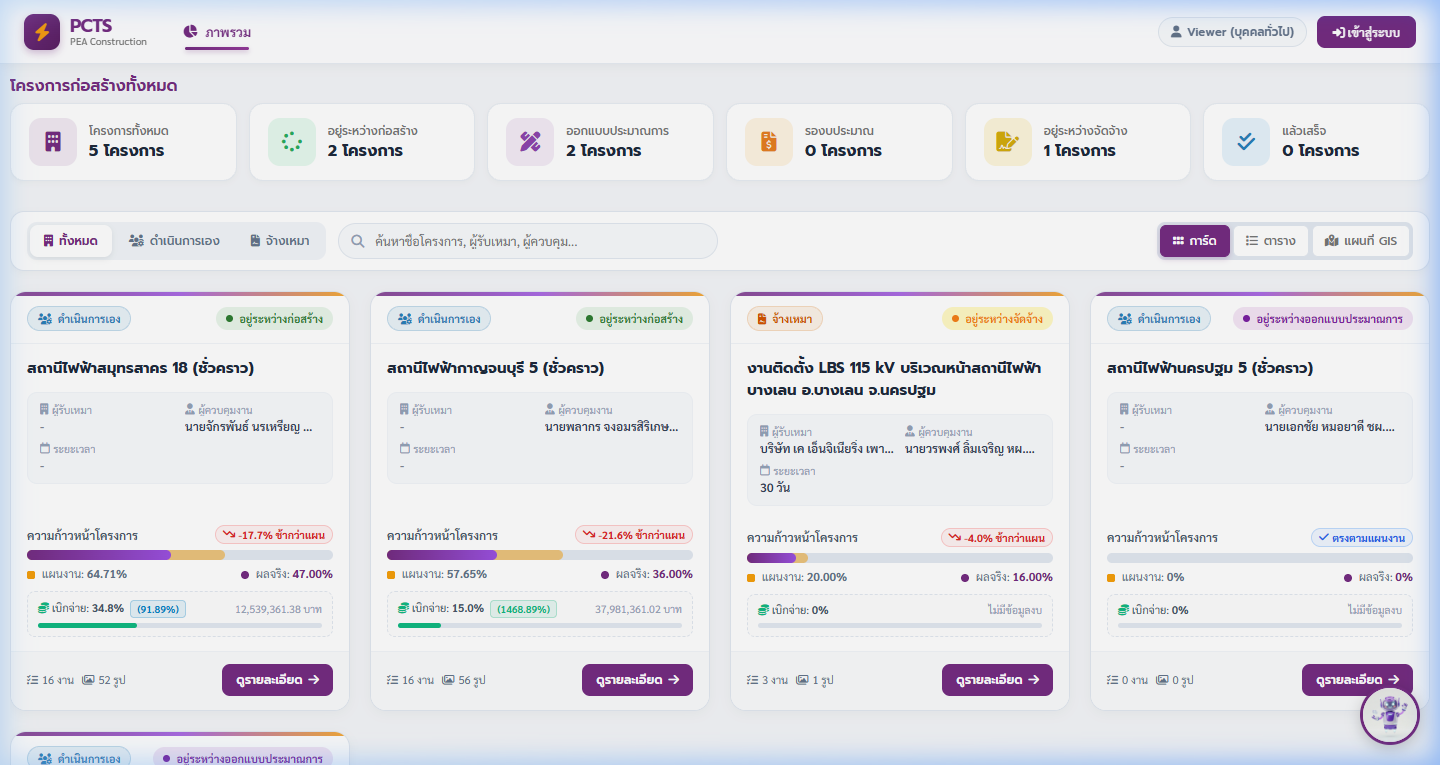
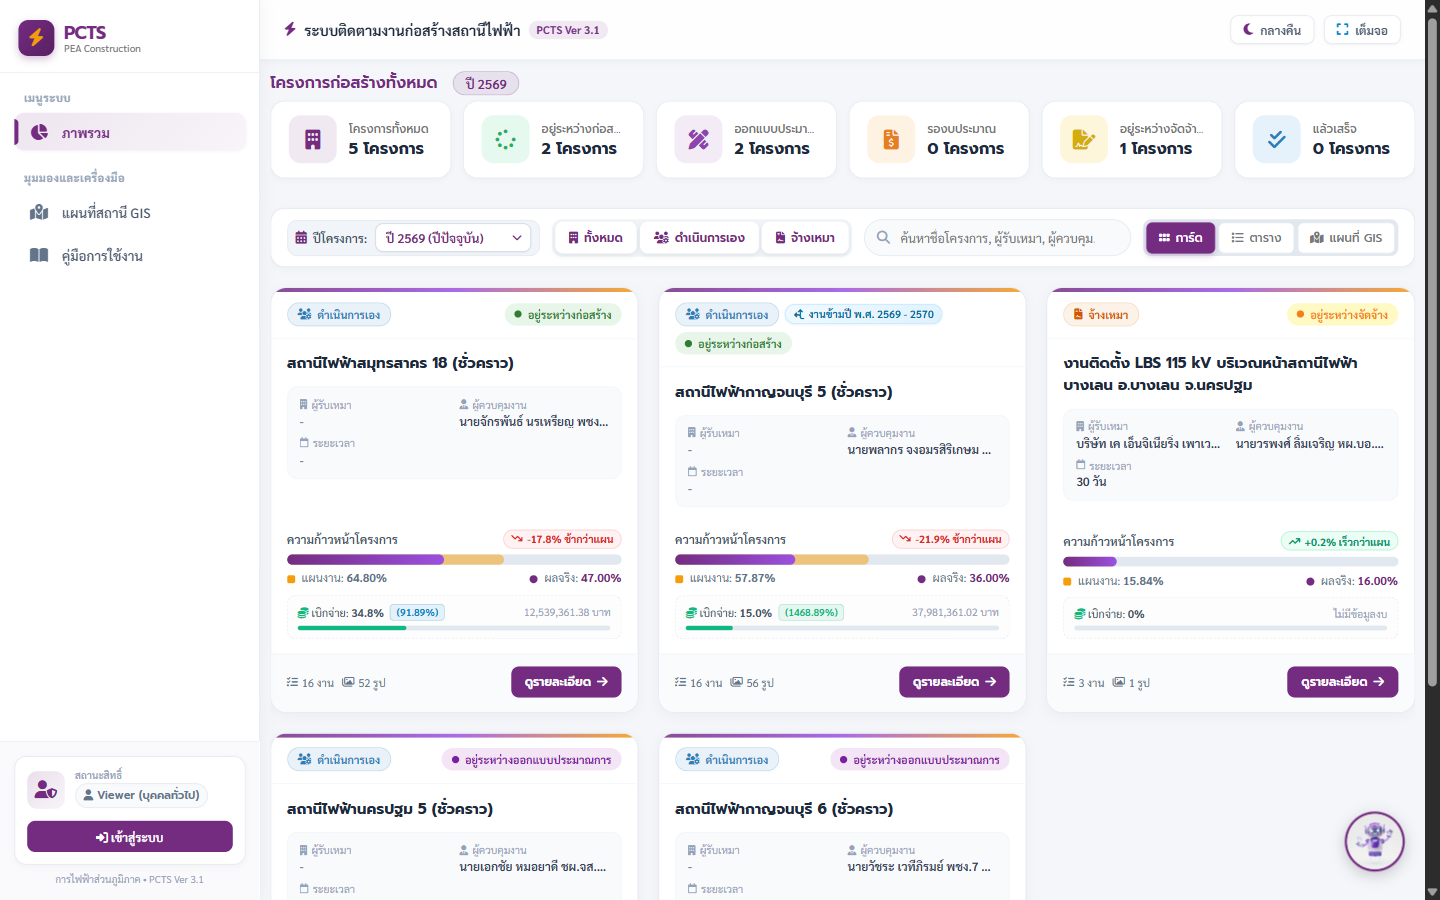
fix(manual): อัปเดตภาพประกอบคู่มือหน้า 1 และหน้า 6 พร้อมระบบแคช pre-cache และ cache busting ?v=2

Changed region(s): [[0.0, 0.0, 1.0, 1.0]]

diff --git a/index.html b/index.html
@@ -37,7 +37,7 @@
     <meta name="theme-color" content="#742C81">
 
     <!-- Custom CSS -->
-    <link rel="stylesheet" href="style.css?v=7">
+    <link rel="stylesheet" href="style.css?v=8">
 </head>
 
 <body>
@@ -983,7 +983,7 @@
                             </div>
 
                             <figure class="manual-figure">
-                                <img src="assets/manual/ch1_dashboard.png" alt="หน้าต่างภาพรวมระบบ PCTS และแถบเมนูนำทางหลัก" class="manual-img">
+                                <img src="assets/manual/ch1_dashboard.png?v=2" alt="หน้าต่างภาพรวมระบบ PCTS และแถบเมนูนำทางหลัก" class="manual-img" loading="eager">
                                 <figcaption class="manual-figcaption">
                                     <i class="fa-solid fa-camera"></i> รูปที่ 1.1: หน้าต่างภาพรวมระบบ PCTS, เมนูนำทางด้านซ้าย (Left Sidebar) และสถานะสิทธิ์การใช้งาน
                                 </figcaption>
@@ -1055,7 +1055,7 @@
                             </div>
 
                             <figure class="manual-figure">
-                                <img src="assets/manual/ch2_gis_map.png" alt="แผนที่พิกัดสถานีไฟฟ้า GIS ทั่วประเทศ" class="manual-img">
+                                <img src="assets/manual/ch2_gis_map.png?v=2" alt="แผนที่พิกัดสถานีไฟฟ้า GIS ทั่วประเทศ" class="manual-img" loading="eager">
                                 <figcaption class="manual-figcaption">
                                     <i class="fa-solid fa-camera"></i> รูปที่ 2.1: แผนที่พิกัดสถานี GIS พร้อมป้ายแสดงสถานะ ผลงานจริง และหน้าต่างนำทาง GPS
                                 </figcaption>
@@ -1117,7 +1117,7 @@
                             </div>
 
                             <figure class="manual-figure">
-                                <img src="assets/manual/ch3_scurve.png" alt="กราฟ S-Curve เปรียบเทียบแผน vs จริง และตาราง WBS" class="manual-img">
+                                <img src="assets/manual/ch3_scurve.png?v=2" alt="กราฟ S-Curve เปรียบเทียบแผน vs จริง และตาราง WBS" class="manual-img" loading="eager">
                                 <figcaption class="manual-figcaption">
                                     <i class="fa-solid fa-camera"></i> รูปที่ 3.1: หน้าต่างติดตามความก้าวหน้าโครงการ กราฟ S-Curve และการแจกแจงกิจกรรม WBS
                                 </figcaption>
@@ -1187,7 +1187,7 @@
                             </div>
 
                             <figure class="manual-figure">
-                                <img src="assets/manual/ch4_signatures.png" alt="การออกรายงานสรุปผลงานและการลงนามรับรองอิเล็กทรอนิกส์ 3 ฝ่าย" class="manual-img">
+                                <img src="assets/manual/ch4_signatures.png?v=2" alt="การออกรายงานสรุปผลงานและการลงนามรับรองอิเล็กทรอนิกส์ 3 ฝ่าย" class="manual-img" loading="eager">
                                 <figcaption class="manual-figcaption">
                                     <i class="fa-solid fa-camera"></i> รูปที่ 4.1: ระบบจัดทำรายงาน PDF พร้อมแนบภาพถ่ายหน้างาน และกล่องลงนามดิจิทัล 3 ฝ่าย
                                 </figcaption>
@@ -1244,7 +1244,7 @@
                             </div>
 
                             <figure class="manual-figure">
-                                <img src="assets/manual/ch5_admin.png" alt="หน้าต่างจัดการโครงการและแผนงานสำหรับ Admin" class="manual-img">
+                                <img src="assets/manual/ch5_admin.png?v=2" alt="หน้าต่างจัดการโครงการและแผนงานสำหรับ Admin" class="manual-img" loading="eager">
                                 <figcaption class="manual-figcaption">
                                     <i class="fa-solid fa-camera"></i> รูปที่ 5.1: หน้าจอตั้งค่าแผนงาน จัดการโครงการ เพิ่มโครงการใหม่ นำเข้า Excel และจัดการสิทธิ์ผู้ใช้งาน
                                 </figcaption>
@@ -1297,7 +1297,7 @@
                             </div>
 
                             <figure class="manual-figure">
-                                <img src="assets/manual/ch6_pwa.png" alt="การติดตั้งและใช้งานระบบบนมือถือ PWA" class="manual-img" style="max-height: 420px;">
+                                <img src="assets/manual/ch6_pwa.png?v=2" alt="การติดตั้งและใช้งานระบบบนมือถือ PWA" class="manual-img" style="max-height: 440px;" loading="eager">
                                 <figcaption class="manual-figcaption">
                                     <i class="fa-solid fa-camera"></i> รูปที่ 6.1: การติดตั้งและใช้งานแบบ Progressive Web App (PWA) บนอุปกรณ์เคลื่อนที่
                                 </figcaption>
@@ -2005,7 +2005,7 @@
     <script src="pwa-setup.js?v=1"></script>
 
     <!-- Main Application Core -->
-    <script src="app.js?v=20"></script>
+    <script src="app.js?v=21"></script>
     <script>
         if (window.location.search.includes('admin') || window.location.hash.includes('admin')) {
             window.addEventListener('load', () => {

diff --git a/service-worker.js b/service-worker.js
@@ -1,4 +1,4 @@
-const CACHE_NAME = 'pcts-pea-v3.4-cache';
+const CACHE_NAME = 'pcts-pea-v3.5-cache';
 const STATIC_ASSETS = [
   './',
   './index.html',
@@ -10,7 +10,13 @@ const STATIC_ASSETS = [
   './realtime-sync.js',
   './pwa-setup.js',
   './mascot.jpg',
-  './manifest.json'
+  './manifest.json',
+  './assets/manual/ch1_dashboard.png',
+  './assets/manual/ch2_gis_map.png',
+  './assets/manual/ch3_scurve.png',
+  './assets/manual/ch4_signatures.png',
+  './assets/manual/ch5_admin.png',
+  './assets/manual/ch6_pwa.png'
 ];
 
 self.addEventListener('install', (event) => {

diff --git a/USER_MANUAL.md b/USER_MANUAL.md
@@ -28,6 +28,9 @@
 - **3-Party Digital Signatures:** ระบบลงนามรับรองผลงาน 3 ฝ่าย (ผู้ควบคุมงาน, ผู้รับจ้าง, ประธานกรรมการตรวจรับ) บนหน้าจอสัมผัส
 - **Financial & Physical S-Curve:** วิเคราะห์เปรียบเทียบทั้งผลงานก่อสร้าง (WBS) และการเบิกจ่ายงบประมาณจริง (รหัส 092)
 
+![ภาพรวมระบบ PCTS และแถบเมนูด้านข้าง](assets/manual/ch1_dashboard.png)
+*รูปที่ 1: หน้าต่างภาพรวมระบบ PCTS, เมนูนำทางด้านซ้าย (Left Sidebar) และสถานะสิทธิ์การใช้งาน*
+
 ---
 
 ## 2. ระดับสิทธิ์และความปลอดภัย
@@ -68,9 +71,6 @@
 - **Permanent Tooltip Labels:** หมุดแต่ละสถานีจะมีป้ายชื่อสถานี (เช่น `⚡ สฟ.สมุทรสาคร 18`) พร้อมตัวเลข % ผลงานจริง และแถบสีระบุสถานะลอยอยู่ใต้หมุดตลอดเวลา
 - **Substation Quick-Jump Chips Bar:** แถบชิปด้านบนแผนที่ คลิกชื่อสถานีเพื่อบิน (Fly-to) พุ่งเข้าหาพิกัดสถานีนั้นพร้อมเปิดหน้าต่างสรุปข้อมูล
 - **ปุ่มนำทาง GPS:** ในป๊อปอัปสถานี มีปุ่มสีเขียว `นำทาง GPS` เพื่อเปิดแอป Google Maps นำทางไปยังสถานีไฟฟ้าทันที
-
-![ภาพรวมระบบ PCTS และแถบเมนูด้านข้าง](assets/manual/ch1_dashboard.png)
-*รูปที่ 1: หน้าต่างภาพรวมระบบ PCTS, เมนูนำทางด้านซ้าย (Left Sidebar) และสถานะสิทธิ์การใช้งาน*
 
 ![แผนที่สถานี GIS พร้อมป้ายชื่อถาวรและปุ่มนำทาง](assets/manual/ch2_gis_map.png)
 *รูปที่ 2: แผนที่พิกัดสถานี GIS พร้อมป้ายแสดงสถานะ ผลงานจริง และหน้าต่างนำทาง GPS*
